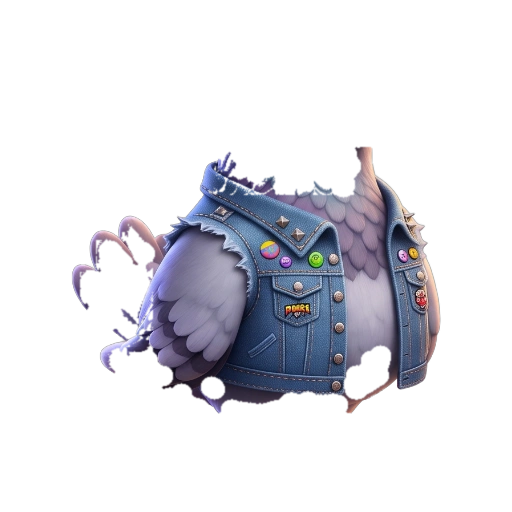
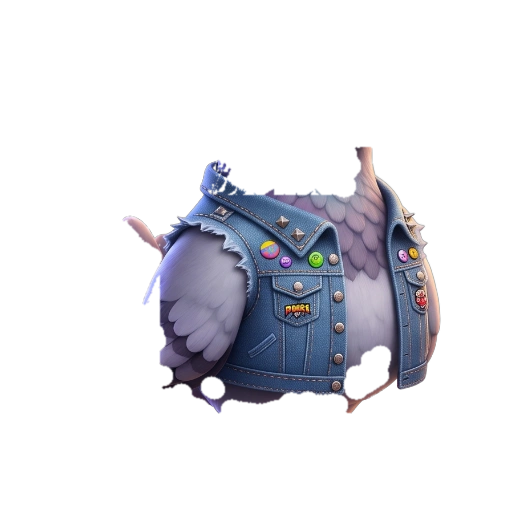
fix: remove grey tail leakage in clothes and mask bare toes under shoes

Changed region(s): [[0.125, 0.4062, 0.3438, 0.7188], [0.4062, 0.2812, 0.5625, 0.4062], [0.5938, 0.3438, 0.6562, 0.4062]]

diff --git a/src/ui.tsx b/src/ui.tsx
@@ -123,7 +123,7 @@ export const PIGEON_SKIN_COLORS: Record<string, string> = {
   "iridescent-oil-slick": "#5e5a67", "skin-18": "#5e5a67", "18": "#5e5a67",
 };
 
-const ASSET_V = "?v=11";
+const ASSET_V = "?v=12";
 
 export function resolveSkinSrc(skin?: string | null): string {
   if (!skin || skin === "common" || skin === "default") {
@@ -409,12 +409,20 @@ function Pigeon({
             role="img"
             aria-label={`Голубь KOO KOO, редкость: ${rarity[rarityIndex]}`}
           >
-            {/* Базовое тело (z-index: 10, с поддержкой 18 окрасов) */}
+            {/* Базовое тело (z-index: 10, с поддержкой 18 окрасов; при надетой обуви скрываем нижние пальцы) */}
             <img
               key={skinTrait || "base"}
               src={resolveSkinSrc(skinTrait)}
               alt="Базовое тело голубя"
               className="pigeon-layer layer-base"
+              style={
+                resolveShoesSrc(shoesTrait)
+                  ? {
+                      WebkitMaskImage: "linear-gradient(to bottom, #000 84%, transparent 91%)",
+                      maskImage: "linear-gradient(to bottom, #000 84%, transparent 91%)",
+                    }
+                  : undefined
+              }
               onError={(e) => {
                 const target = e.currentTarget as HTMLImageElement;
                 if (!target.src.includes("body-base.webp")) {

diff --git a/scripts/build-pigeon-assets.py b/scripts/build-pigeon-assets.py
@@ -379,8 +379,8 @@ def extract_accessory_diff(
         x_min_ref = int(xs_ref.min())
         rgb_c = aligned_rgba[:, :, :3].astype(int)
         is_gray_feather = (rgb_c[:, :, 2] >= rgb_c[:, :, 0] - 8) & (rgb_c.mean(axis=-1) < 190)
-        is_tail = (x_grid < int(x_min_ref + w_ref * 0.21)) & (diff < 52.0) & is_gray_feather
-        is_neck = (y_grid < y_min_ref + int(h_ref * 0.36)) & (x_grid > x_min_ref + int(w_ref * 0.32)) & (x_grid < x_min_ref + int(w_ref * 0.78)) & ((diff < 55.0) & is_gray_feather)
+        is_tail = (x_grid < int(x_min_ref + w_ref * 0.23)) & is_gray_feather
+        is_neck = (y_grid < y_min_ref + int(h_ref * 0.36)) & (x_grid > x_min_ref + int(w_ref * 0.30)) & (x_grid < x_min_ref + int(w_ref * 0.78)) & is_gray_feather & (diff < 75.0)
         raw_diff = (alpha_src > 40) & ((~ref_body) | (diff > 28.0)) & (y_grid >= y_head_end) & (y_grid <= y_feet_start) & (~is_tail) & (~is_neck)
         opened = cv2.morphologyEx(raw_diff.astype(np.uint8), cv2.MORPH_OPEN, cv2.getStructuringElement(cv2.MORPH_ELLIPSE, (3, 3)))
         closed = cv2.morphologyEx(opened, cv2.MORPH_CLOSE, cv2.getStructuringElement(cv2.MORPH_ELLIPSE, (21, 21))) > 0
